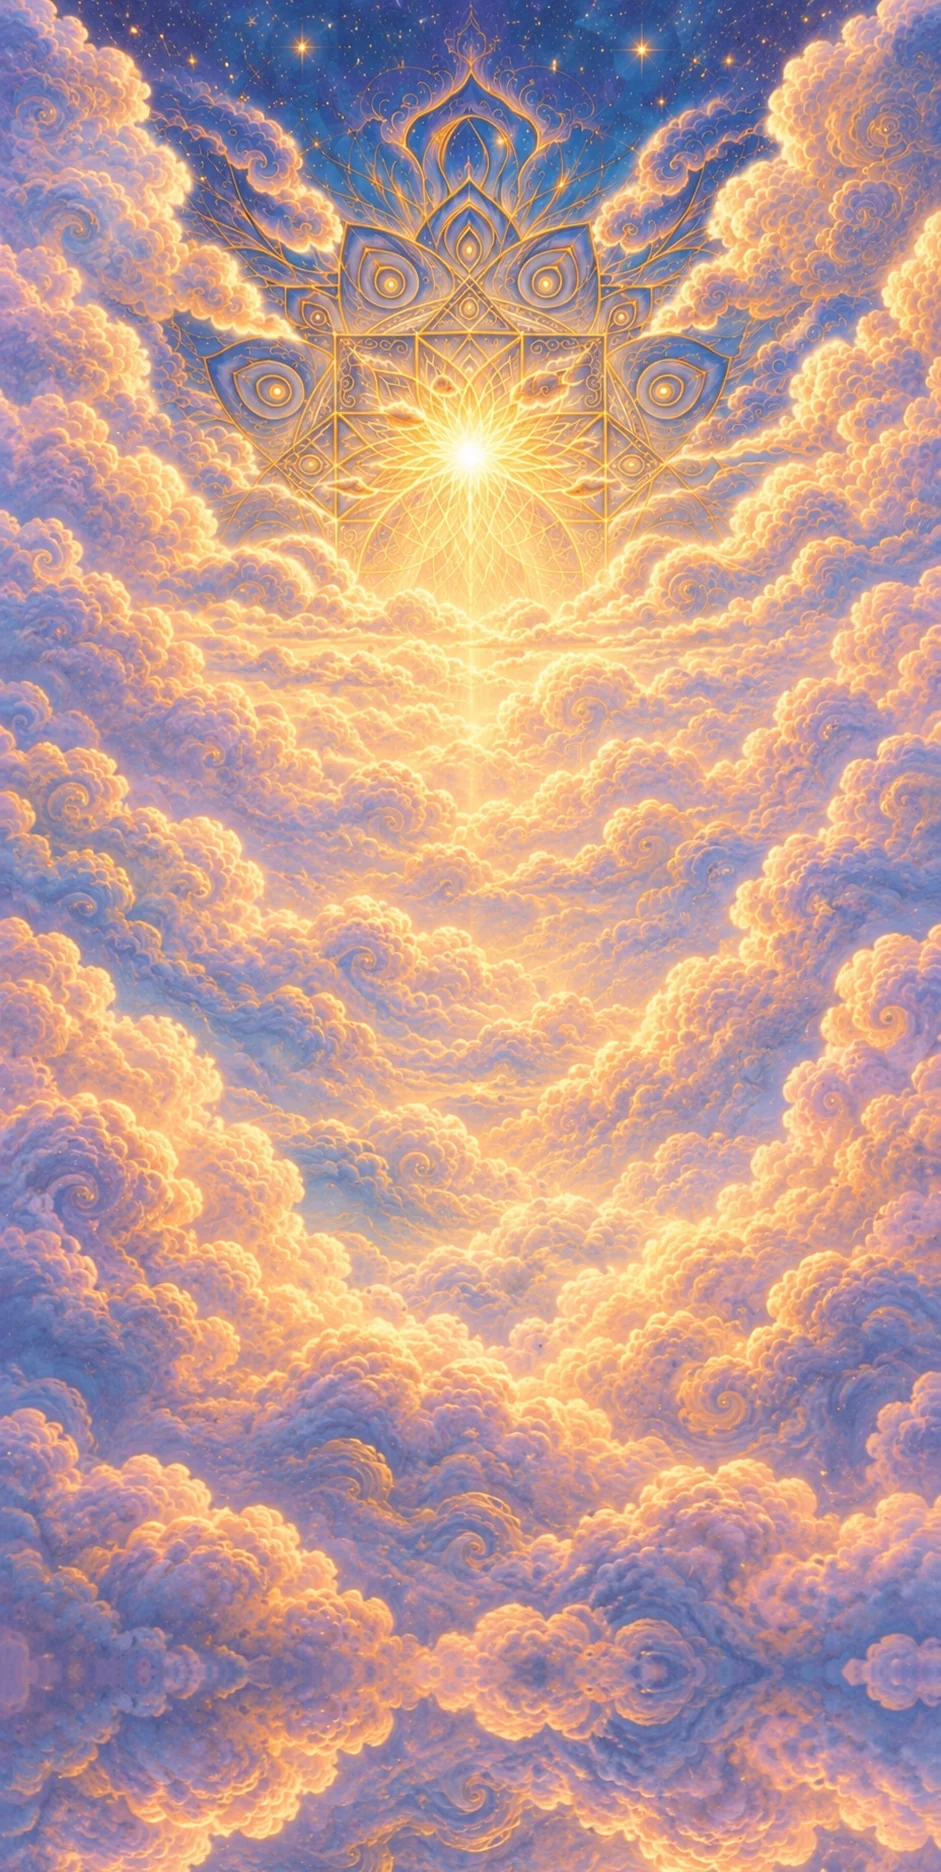
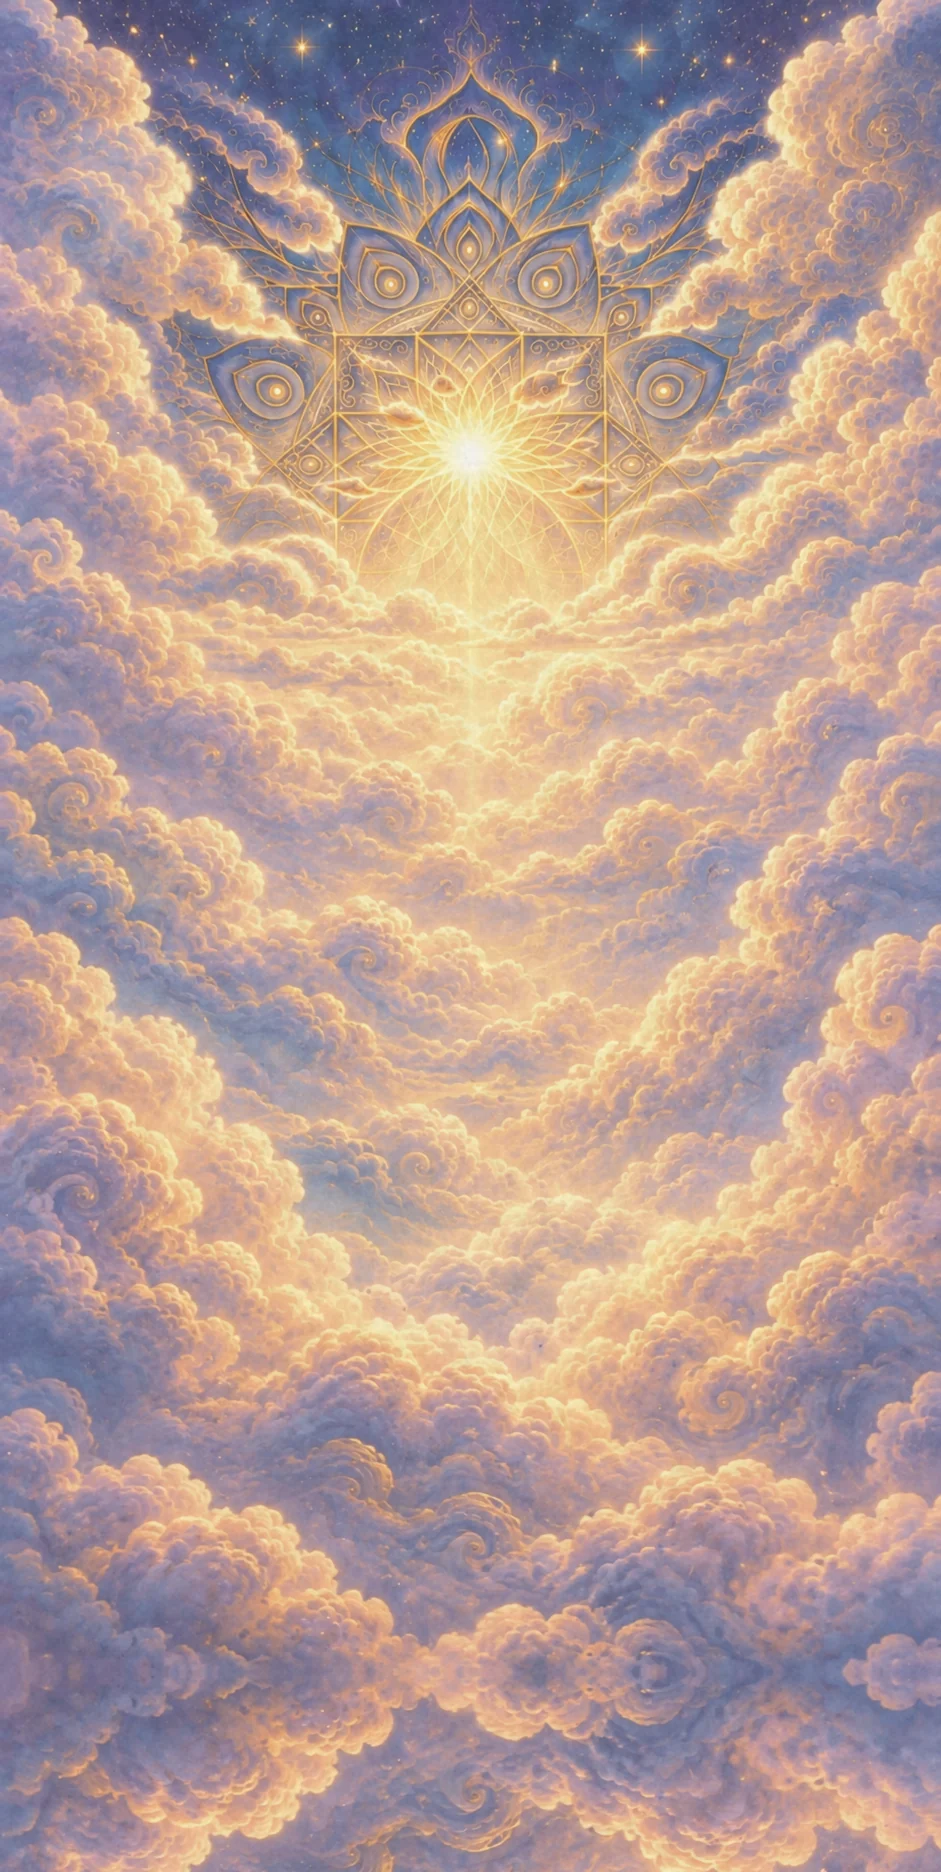
World v3 preview: TREV's own sky back; painterly grade baked into every layer
Muted colour (chroma x0.72), softer contrast, edge-preserving smoothing and a
fine paper grain, baked into the webp layers (no runtime filter cost).

Claude-Session: https://claude.ai/code/session_01X5u2D9a4RRbbCvwnE6RQKF

Changed region(s): [[0.2157, 0.0, 0.8013, 0.1239], [0.339, 0.1859, 0.5239, 0.2788], [0.5239, 0.2169, 0.6472, 0.2788]]

diff --git a/prototype/world-v3-preview/trev-world-scroll.html b/prototype/world-v3-preview/trev-world-scroll.html
@@ -33,7 +33,7 @@
 // castle peaks rising; scrolling brings each layer up (or in from the side) to its place.
 // rest: x, y, width in canvas px (941x1672). from: offset at landing. span: slice of the scroll it moves in.
 const CANVAS = { w: 941, h: 1672 };
-const SUN = { x: 473, y: 429 }; // centre of the mandala in Burnell's sky
+const SUN = { x: 471, y: 301 };
 const LOGO = { aspect: 1280 / 667, ax: 0.5015, ay: 0.4418 };
 // Same choreography as Burnell's world (WorldHome.jsx): descent over 236svh of scroll, eased toward
 // the finger at 5/s, nearer layers starting later and travelling further, the side trees already
@@ -41,13 +41,13 @@ const LOGO = { aspect: 1280 / 667, ax: 0.5015, ay: 0.4418 };
 // and clearing over the first 30%, and clouds that part to the sides as you go down.
 const DESCENT_SVH = 236, SCROLL_EASE = 5, PART_RANGE = 0.9;
 const LAYERS = [
-  { key: "sky", src: "burnell-world-sky.webp", w: 941, x: 0, y: 0,  from: [0, 0],     span: [0, 1] },
-  { key: "mountains",  w: 941,   x: 0,     y: 145,     from: [0, 520],   span: [0, 1] },
-  { key: "falls",      w: 941,   x: 0,     y: 300,   from: [0, 900],   span: [0, 1] },
-  { key: "forest",     w: 941,   x: 0,     y: 185,   from: [0, 1150],  span: [0.05, 1] },
-  { key: "river",      w: 941,   x: 0,     y: 565,   from: [0, 1400],  span: [0.1, 1] },
-  { key: "bison",      w: 127,   x: 406.9, y: 1040.8, from: [0, 1400],  span: [0.1, 1] },
-  { key: "foreground", w: 941,   x: 0,     y: 340,   from: [0, 900],   span: [0.25, 1] },
+  { key: "sky",        w: 941,   x: 0,     y: -150,  from: [0, 0],     span: [0, 1] },
+  { key: "mountains",  w: 941,   x: 0,     y: 5,     from: [0, 520],   span: [0, 1] },
+  { key: "falls",      w: 941,   x: 0,     y: 160,   from: [0, 900],   span: [0, 1] },
+  { key: "forest",     w: 941,   x: 0,     y: 45,   from: [0, 1150],  span: [0.05, 1] },
+  { key: "river",      w: 941,   x: 0,     y: 425,   from: [0, 1400],  span: [0.1, 1] },
+  { key: "bison",      w: 127,   x: 406.9, y: 900.8, from: [0, 1400],  span: [0.1, 1] },
+  { key: "foreground", w: 941,   x: 0,     y: 200,   from: [0, 900],   span: [0.25, 1] },
   { key: "aspens",     w: 941,   x: -80,   y: 0,     from: [-190, 0],  span: [0, 1] },
   { key: "juniper",    w: 799.9, x: 210,   y: 251,   from: [190, 0],   span: [0, 1] },
 ];
@@ -73,7 +73,7 @@ for (const L of LAYERS) {
     world.appendChild(ce); c.el = ce;
   }
 }
-document.getElementById("side").style.backgroundImage = "url(burnell-world-sky.webp)";
+document.getElementById("side").style.backgroundImage = "url(w3-sky.webp)";
 const ease = (t) => { t = Math.min(1, Math.max(0, t)); return t * t * (3 - 2 * t); };
 
 let VW = 0, VH = 0;

diff --git a/prototype/tools/world-v3/grade.py b/prototype/tools/world-v3/grade.py
@@ -1,0 +1,17 @@
+import cv2, numpy as np
+rng=np.random.default_rng(7)
+def paper(h,w):
+    n=rng.standard_normal((h,w)).astype(np.float32)
+    g=cv2.GaussianBlur(n,(0,0),1.1)*0.6+cv2.GaussianBlur(n,(0,0),4)*1.4
+    return g/ g.std()
+def grade(bgr, chroma=0.76, contrast=0.9, smooth=0.55, grain=2.2):
+    img=bgr.astype(np.uint8)
+    sm=cv2.edgePreservingFilter(img,flags=1,sigma_s=18,sigma_r=0.12)
+    img=cv2.addWeighted(sm,smooth,img,1-smooth,0)
+    lab=cv2.cvtColor(img,cv2.COLOR_BGR2LAB).astype(np.float32)
+    L,a,b=lab[...,0],lab[...,1]-128,lab[...,2]-128
+    L=(L-128)*contrast+128+4          # softer contrast, slightly lifted
+    a*=chroma; b=b*chroma+2.5         # muted colour, a touch warm (aged paper)
+    L+=paper(*L.shape)*grain          # fine paper/canvas tooth
+    lab=np.dstack([np.clip(L,0,255),np.clip(a+128,0,255),np.clip(b+128,0,255)]).astype(np.uint8)
+    return cv2.cvtColor(lab,cv2.COLOR_LAB2BGR)
